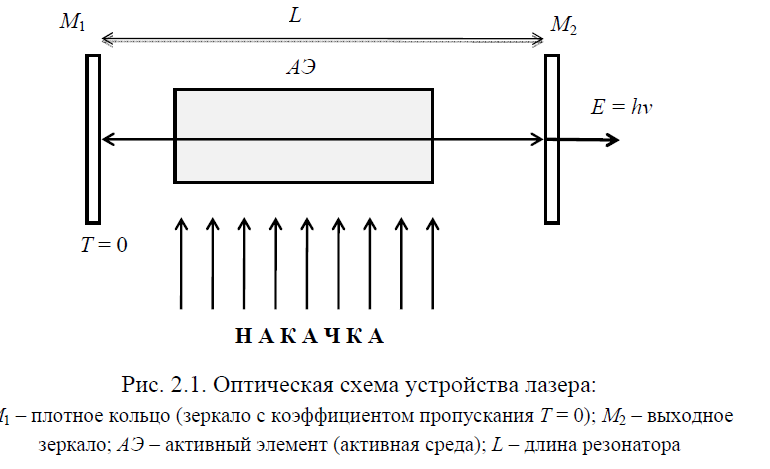
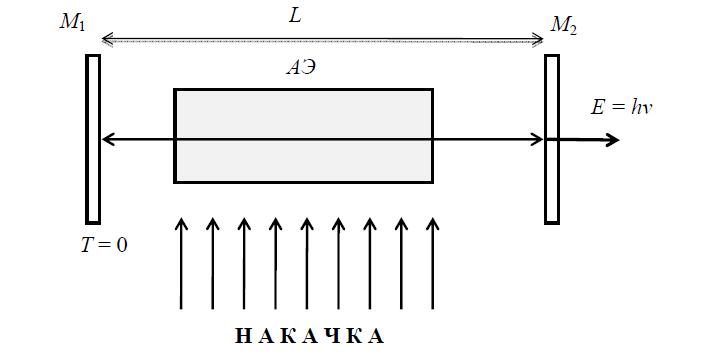
[lasers: 12] fixed image

diff --git a/07_lasers/12.tex b/07_lasers/12.tex
@@ -8,7 +8,7 @@
 Stimulated Emission of Radiation>>, которая переводится как <<усиление света з
 а счет вынужденного испускания излучения>>.
 
-Лазер, оптическая схема которого приведена на рис.\ref{img12.1}, в основном
+Лазер, оптическая схема которого приведена на рис.~\ref{img12.1}, в основном
 состоит из трех компонент, а именно: \\
 1) активный элемент (АЭ), который усиливает падающую электромагнитную волну; \\
 2) система накачки, которая селективно накачивает энергию в активную среду, 
@@ -20,8 +20,13 @@ Stimulated Emission of Radiation>>, которая переводится как
 
 \begin{figure}[h!]
     \center
-    \includegraphics[width=.4\textwidth]{12_01}
+    \includegraphics[width=.5\textwidth]{12_01}
+    \caption{Оптическая схема устройства лазера}
     \label{img12.1}
+    \parbox{.7\textwidth}{\footnotesize{ \( M_1 \)~-- плотное кольцо (зеркало с
+      коэффициентом пропускания \( T = 0 \)); \( M_2 \)~-- выходное зеркало;
+      \emph{АЭ}~-- активный элемент (активная среда); \( L \)~-- длина
+      резонатора}}
 \end{figure}
 
 Усиление электромагнитной волны в среде возможно только при условии, что 
